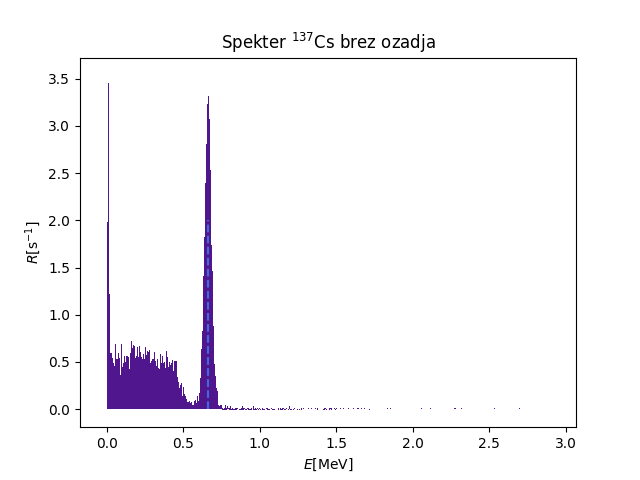
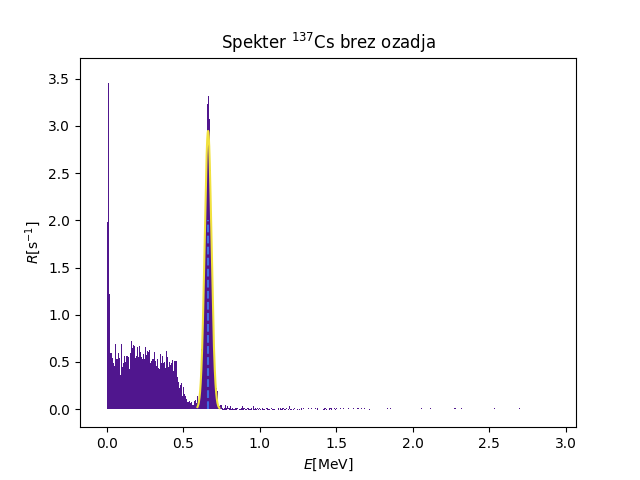
feat: peak of cs works, onto Co

Changed region(s): [[0.3125, 0.2812, 0.3438, 0.8438]]

diff --git a/07gamma/source/obdelovanje_07gamma.py b/07gamma/source/obdelovanje_07gamma.py
@@ -179,11 +179,29 @@ r_cs137 = dataCs / timeCs - r_bg
 argmaxCs = np.argmax(r_cs137[150:]) + 150
 print(x_cal[argmaxCs])
 
+startPeakCs = argmaxCs - 200
+endPeakCs = argmaxCs + 200
+
+# adjusting x axis
+xCalCs137 = x_cal[startPeakCs:endPeakCs]
+
+fitparCs137, fitcovCs137 = curve_fit(gauss, xCalCs137,
+                                     r_cs137[startPeakCs:endPeakCs])
+
+# širina vrha
+
+print("Širina prvega vrha cezija: ", unp.uarray(fitparCs137[2],
+                                                np.sqrt(np.diag(fitcovCs137))[2]))
+
+# plot of Gauss function
+
+plt.plot(xCalCs137, gauss(xCalCs137, *fitparCs137), color=e3)
+
 # bar plot of cezij
 plt.bar(x_cal, r_cs137, width=0.001, color=d1)
 print("Plot of Cs")
 # the maximum of cezij
-#plt.vlines(x_cal[argmaxCs], 0, 2.0, color=d2, ls = '--', zorder=1)
+plt.vlines(x_cal[argmaxCs], 0, 2.0, color=d2, ls = '--', zorder=1)
 
 # miscs for matplotlib
 plt.title(r'Spekter $^{137} \mathrm{Cs}$ brez ozadja')
